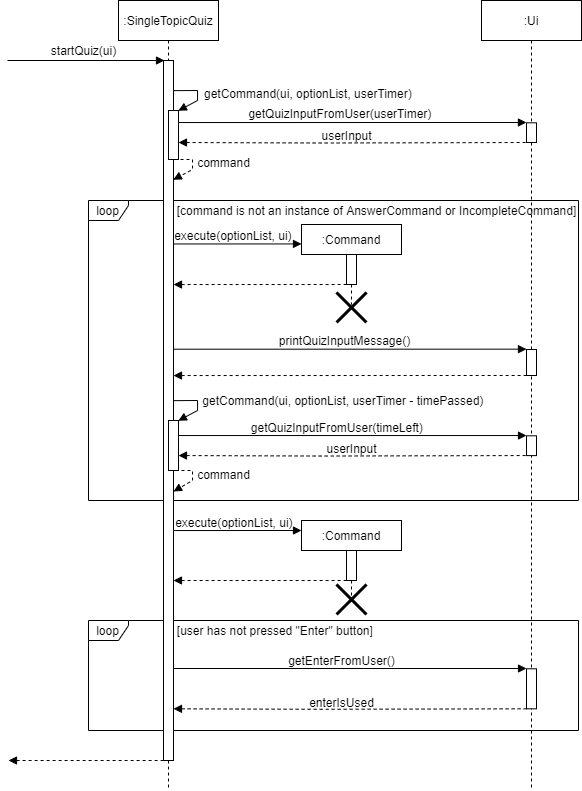
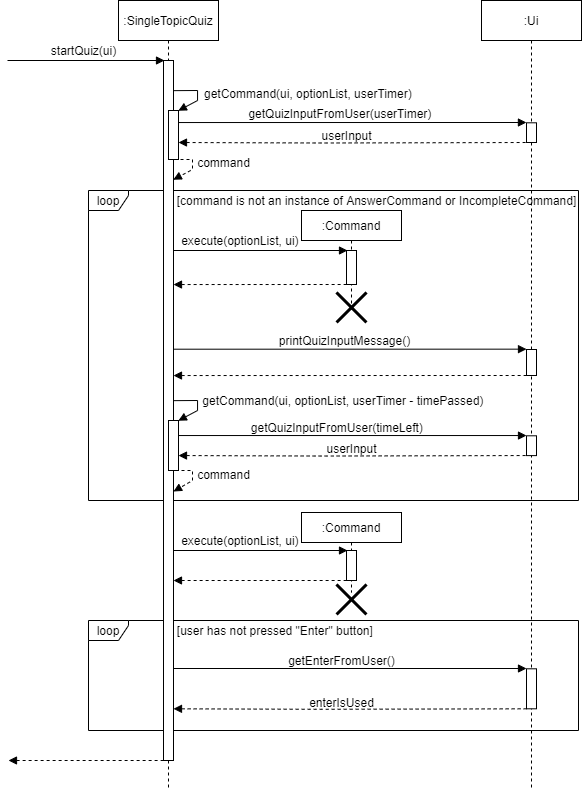
Update deleted code and diagram

diff --git a/src/main/java/seedu/eduke8/quiz/SingleTopicQuiz.java b/src/main/java/seedu/eduke8/quiz/SingleTopicQuiz.java
@@ -116,9 +116,9 @@ public class SingleTopicQuiz implements Quiz {
 
             command.execute(optionList, ui);
 
-            //User has to press enter so that the next question will be shown / quiz will end
+            //User has to press enter so that the next question will be shown 
             boolean enterIsUsed = false;
-            while (!enterIsUsed) {
+            while (!enterIsUsed && !quizQuestionsManager.areAllQuestionsAnswered()) {
                 enterIsUsed = ui.getEnterFromUser();
             }
         }
